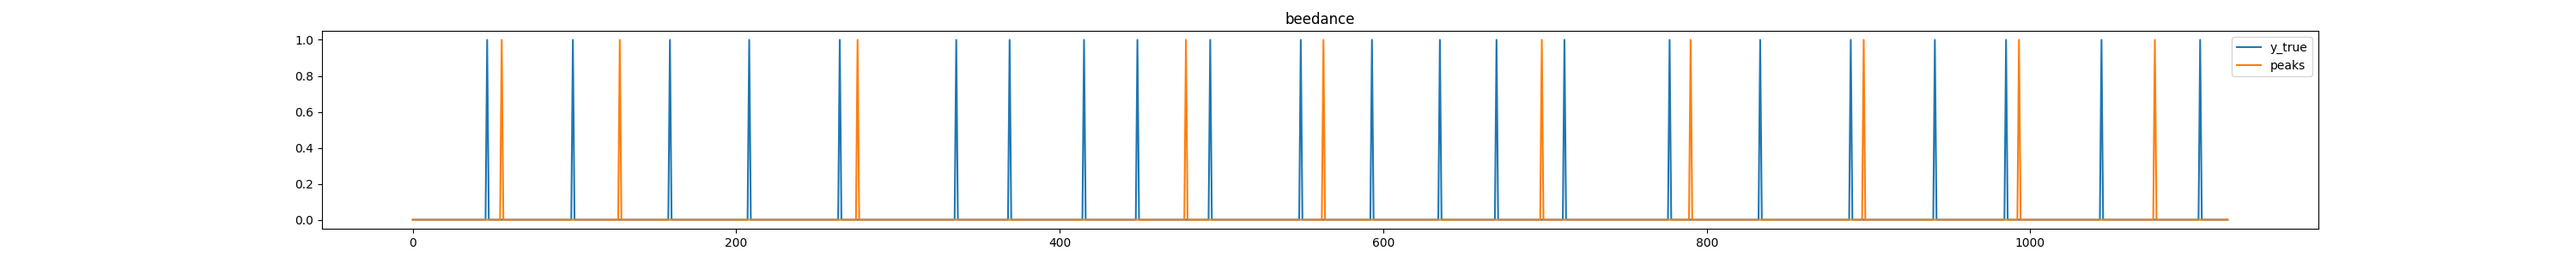
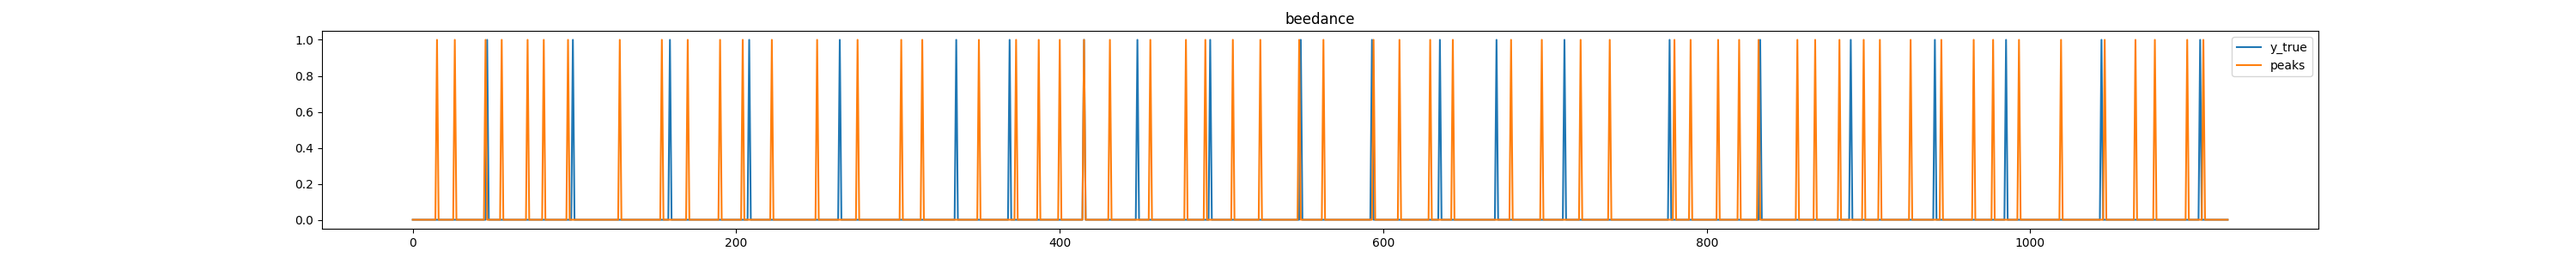
Update1 May 15th

diff --git a/TiVaCPD/experiments.py b/TiVaCPD/experiments.py
@@ -236,7 +236,8 @@ def main():
             corr_score_nor = corr_score_nor * corr_vote.astype(int)
 
             w_corr = False
-            if((model.tvgl_iter> 200) & (model.offset> 0.01)):
+            if(False):
+            #if((model.tvgl_iter> 200) & (model.offset> 0.01)):
                 y_pred = combined_score_savgol
             else:
                 all_scores = [mmd_score_nor, corr_score_nor, corr_score_savgol, combined_score_savgol]
@@ -267,7 +268,7 @@ def main():
                         final_score = final_score / sum(W)
                         #final_score = np.dot(all_scores, W) / sum(W)
                         y_pred = final_score
-                        metrics= ComputeMetrics(y_true, y_pred, args.margin)
+                        metrics= ComputeMetrics(y_true, y_pred, args.margin, threshold = args.score_threshold)
                         print("W Weighted ensemble score:", "AUC:", np.round(metrics.auc,2), "F1:",np.round(metrics.f1,2), "Precision:", np.round(metrics.precision,2), "Recall:",np.round(metrics.recall,2))
                     #else:
                         score_num = all_scores.shape[1]
@@ -286,7 +287,7 @@ def main():
                     final_score = np.nan_to_num(final_score)
                     print('There was nan in final score')
                 y_pred = final_score
-            metrics= ComputeMetrics(y_true, y_pred, args.margin)
+            metrics= ComputeMetrics(y_true, y_pred, args.margin, threshold = args.score_threshold)
             name_w = 'W ' if w_corr else 'D '
             print(name_w + "Weighted ensemble score:", "AUC:", np.round(metrics.auc,2), "F1:",np.round(metrics.f1,2), "Precision:", np.round(metrics.precision,2), "Recall:",np.round(metrics.recall,2))
             final_auc_scores_combined.append(np.round(metrics.auc,3))
@@ -296,15 +297,16 @@ def main():
 
             y_pred = mmd_score_nor
             mmd_score_nor = y_pred
-            metrics = ComputeMetrics(y_true, y_pred, args.margin)
+            metrics = ComputeMetrics(y_true, y_pred, args.margin, threshold = 
+                                     args.score_threshold)
             print("Norm DistScore:", "AUC:",np.round(metrics.auc,2), "F1:",np.round(metrics.f1,2), "Precision:", np.round(metrics.precision,2), "Recall:",np.round(metrics.recall,2))
             y_pred = corr_score_nor
             corr_score_nor = y_pred
-            metrics = ComputeMetrics(y_true, y_pred, args.margin)
+            metrics = ComputeMetrics(y_true, y_pred, args.margin, threshold = args.score_threshold)
             print("Norm CorrScore:", "AUC:",np.round(metrics.auc,2), "F1:",np.round(metrics.f1,2), "Precision:", np.round(metrics.precision,2), "Recall:",np.round(metrics.recall,2))
             combined_score_nor = np.add(mmd_score_nor, corr_score_nor)
             y_pred = combined_score_nor
-            metrics= ComputeMetrics(y_true, y_pred, args.margin)
+            metrics= ComputeMetrics(y_true, y_pred, args.margin, threshold = args.score_threshold)
             print("Norm EnsembleScore:", "AUC:", np.round(metrics.auc,2), "F1:",np.round(metrics.f1,2), "Precision:", np.round(metrics.precision,2), "Recall:",np.round(metrics.recall,2))
             #"""
 
@@ -315,15 +317,15 @@ def main():
 
         
             y_pred = mmd_score
-            metrics = ComputeMetrics(y_true, y_pred, args.margin)
+            metrics = ComputeMetrics(y_true, y_pred, args.margin, threshold = args.score_threshold)
             print("DistScore:", "AUC:",np.round(metrics.auc,2), "F1:",np.round(metrics.f1,2), "Precision:", np.round(metrics.precision,2), "Recall:",np.round(metrics.recall,2))
 
             y_pred = corr_score
-            metrics = ComputeMetrics(y_true, y_pred, args.margin)
+            metrics = ComputeMetrics(y_true, y_pred, args.margin, threshold = args.score_threshold)
             print("CorrScore:", "AUC:",np.round(metrics.auc,2), "F1:",np.round(metrics.f1,2), "Precision:", np.round(metrics.precision,2), "Recall:",np.round(metrics.recall,2))
 
             y_pred = combined_score
-            metrics= ComputeMetrics(y_true, y_pred, args.margin)
+            metrics= ComputeMetrics(y_true, y_pred, args.margin, threshold = args.score_threshold)
             print("EnsembleScore:", "AUC:", np.round(metrics.auc,2), "F1:",np.round(metrics.f1,2), "Precision:", np.round(metrics.precision,2), "Recall:",np.round(metrics.recall,2))
 
             print("Processed:")
@@ -334,7 +336,7 @@ def main():
             print('mmd max: ', np.max(y_true), np.max(y_pred))
             print('mmd mean: ', np.mean(y_true), np.mean(y_pred))
             #"""
-            metrics = ComputeMetrics(y_true, y_pred, args.margin)
+            metrics = ComputeMetrics(y_true, y_pred, args.margin, threshold = args.score_threshold)
             auc_scores_mmdagg.append(metrics.auc)
             f1_scores_mmdagg.append(metrics.f1) 
             precision_scores_mmdagg.append(metrics.precision)
@@ -347,7 +349,7 @@ def main():
             print('corr max: ', np.max(y_true), np.max(y_pred))
             print('corr mean: ', np.mean(y_true), np.mean(y_pred))
             #"""
-            metrics = ComputeMetrics(y_true, y_pred, args.margin)
+            metrics = ComputeMetrics(y_true, y_pred, args.margin, args.score_threshold)
             auc_scores_correlation.append(metrics.auc)
             f1_scores_correlation.append(metrics.f1) 
             precision_scores_correlation.append(metrics.precision)
@@ -356,7 +358,7 @@ def main():
             
 
             y_pred = combined_score_savgol
-            metrics = ComputeMetrics(y_true, y_pred, args.margin)
+            metrics = ComputeMetrics(y_true, y_pred, args.margin, threshold = args.score_threshold)
             auc_scores_combined.append(metrics.auc)
             f1_scores_combined.append(metrics.f1)
             precision_scores_combined.append(metrics.precision)
@@ -403,7 +405,7 @@ def main():
                 else:
                     y_pred[j] = 0
             
-            metrics = ComputeMetrics(y_true, y_pred, args.margin, args.threshold, process=False)
+            metrics = ComputeMetrics(y_true, y_pred, args.margin, threshold = args.score_threshold, process=False)
             auc_scores.append(metrics.auc)
             f1_scores.append(metrics.f1) 
             precision_scores.append(metrics.precision)
@@ -451,7 +453,7 @@ def main():
             model = KLCPD(X, p_wnd_dim=args.p_wnd_dim, f_wnd_dim=args.f_wnd_dim, epochs=20)
             y_pred = model.scores
 
-            metrics = ComputeMetrics(y_true, y_pred, args.margin, args.threshold, model_type='KLCPD')
+            metrics = ComputeMetrics(y_true, y_pred, args.margin, threshold = args.score_threshold, model_type='KLCPD')
             auc_scores.append(metrics.auc)
             f1_scores.append(metrics.f1)
             precision_scores.append(metrics.precision)
@@ -500,7 +502,7 @@ def main():
                   lr=0.01, lam=0.0001, optimizer="Adam"
                  )
             y_pred, _ = model.predict(X)
-            metrics = ComputeMetrics(y_true, y_pred, args.margin, args.threshold)
+            metrics = ComputeMetrics(y_true, y_pred, args.margin, threshold = args.score_threshold)
             auc_scores.append(metrics.auc)
             f1_scores.append(metrics.f1) 
             precision_scores.append(metrics.precision)
@@ -554,7 +556,7 @@ def main():
 
             y_true = y_true_samples[i]
 
-            metrics = ComputeMetrics(y_true, y_pred, args.margin, args.threshold)
+            metrics = ComputeMetrics(y_true, y_pred, args.margin, threshold = args.score_threshold)
             auc_scores.append(metrics.auc)
             f1_scores.append(metrics.f1) 
             precision_scores.append(metrics.precision)
@@ -634,6 +636,7 @@ if __name__=='__main__':
     parser.add_argument('--max_iters', type = int, default = 500)
     parser.add_argument('--overlap', type = int, default = 1)
     parser.add_argument('--threshold', type = float, default = .2)
+    parser.add_argument('--score_threshold', type = float, default = .05)
     parser.add_argument('--f_wnd_dim', type = int, default = 10)
     parser.add_argument('--p_wnd_dim', type = int, default = 3)
     parser.add_argument('--exp', default = 'changing_correlation') # used for output path for results

diff --git a/TiVaCPD/hyp_tune.py b/TiVaCPD/hyp_tune.py
@@ -126,7 +126,7 @@ def main():
         best_params = [.2, 10, 0.4, 0.4, 'mexh','smooth']
         comb = [list(np.arange(3)),list(np.arange(3)),list(np.arange(3)),list(np.arange(3)), list(np.arange(4)), list(np.arange(2))]
     else:
-        hyp_params = {'threshold':[.2,.02,.002],'slice_size':[14, 10, 5],'alpha_':[5, 1, 0.4],'beta':[12, 6, 0.4], 'score_threshold':[0.1,0.05,0.01]}
+        hyp_params = {'threshold':[.2,.02,.002],'slice_size':[14, 10, 5],'alpha_':[5, 1, 0.4],'beta':[12, 6, 0.4], 'score_threshold':[0.1,0.05,0.005]}
         best_params = [.2, 10, 0.4, 0.4, 0.05]
         comb = [list(np.arange(3)),list(np.arange(3)),list(np.arange(3)),list(np.arange(3)), list(np.arange(3))]
     
@@ -144,6 +144,8 @@ def main():
     #https://towardsdatascience.com/a-conceptual-explanation-of-bayesian-model-based-hyperparameter-optimization-for-machine-learning-b8172278050f
     #https://github.com/WillKoehrsen/hyperparameter-optimization/blob/master/Kaggle%20Version%20of%20Bayesian%20Hyperparameter%20Optimization%20of%20GBM.ipynb
     f1_list = []
+    x_train = x_test
+    y_train = y_test
     print('length data for hyp tuning: ', len(x_train))
     for ind in grid_index: 
         ind = list(ind)
@@ -166,7 +168,7 @@ def main():
             data_path = os.path.join(args.out_path, args.exp)
             data_path += '_'+str(args.penalty_type)
             model = MMDATVGL_CPD(X, max_iters = args.max_iters, overlap=args.overlap, alpha = 0.001, threshold = threshold, f_wnd_dim = args.f_wnd_dim, p_wnd_dim = args.p_wnd_dim, data_path = data_path, sample = i,
-                                slice_size=slice_size, alpha_=alpha_, beta=beta) 
+                                slice_size=slice_size, alpha_=alpha_, beta=beta, hyp_tuning=True) 
             mmd_score = model.mmd_score #shift(model.mmd_score, args.p_wnd_dim)
             corr_score = model.corr_score
             minLength = min(len(mmd_score), len(corr_score)) 
@@ -222,7 +224,7 @@ def main():
             if(args.wavelet):
                 best_params = [threshold, slice_size, alpha_, beta, wave_shape, wave_ext]
             else:
-                best_params = [threshold, slice_size, alpha_, beta]
+                best_params = [threshold, slice_size, alpha_, beta, score_threshold]
 
 
     #threshold, slice_size, alpha_, beta, wave_shape, wave_ext = best_params

diff --git a/TiVaCPD/cpd_methods.py b/TiVaCPD/cpd_methods.py
@@ -395,7 +395,7 @@ class MMDATVGL_CPD():
     def __init__(self, series:np.array, p_wnd_dim:int=5, f_wnd_dim:int=10, threshold:int=.05, alpha:int=.05,
     kernel_type='gaussian', approx_type='permutation', B1:int=1000, B2:int=1000, B3:int=100, weights_type='uniform', l_minus:int=1, l_plus:int=5, 
                                         alpha_:int=0.4, beta:int=0.4, penalty_type='L1', slice_size:int=10, overlap:int=1, max_iters:int=500, data_path = '', 
-                                        sample = '', wavelet=False, wave_shape = 'mexh', wave_ext = 'smooth', data_type='HAR'):
+                                        sample = '', wavelet=False, wave_shape = 'mexh', wave_ext = 'smooth', data_type='HAR', hyp_tuning=False):
         """
         @param series - timeseries
         @param p_wnd_dim - past window size
@@ -445,18 +445,18 @@ class MMDATVGL_CPD():
         self.wave_shape = wave_shape #'gaus1-5'
         self.wave_ext = wave_ext #'periodic'
         self.remove_corr = False
-        #"""
-        if data_type in ['beewaggle', 'beedance', 'occupancy']:
-            self.threshold, self.slice_size, self.alpha_, self.beta = [0.002, 5, 0.4, 0.4]
-        #[0.002, 5, 1, 12]
-        # [0.2, 14, 5, 0.4] #0.4
-        #"""
-        #"""
-        if data_type in ['HAR', 'har']:
-            self.threshold, self.slice_size, self.alpha_, self.beta = [0.02, 5, 1, 6]
-        #[0.002, 5, 5, 6]
-        # [0.2, 10, 5, 12]
-        #"""
+        self.hyp_tuning = hyp_tuning
+
+        if(not(self.hyp_tuning)):
+            if data_type in ['beewaggle', 'beedance', 'occupancy']:
+                self.threshold, self.slice_size, self.alpha_, self.beta = [0.002, 5, 0.4, 0.4]
+            #[0.002, 5, 1, 12]
+            # [0.2, 14, 5, 0.4] #0.4
+            
+            if data_type in ['HAR', 'har']:
+                self.threshold, self.slice_size, self.alpha_, self.beta = [0.02, 5, 1, 6]
+            #[0.002, 5, 5, 6]
+            # [0.2, 10, 5, 12]
         if(data_type == 'occupancy'):
             self.series = preprocessing.normalize(self.series, axis=0)
 
